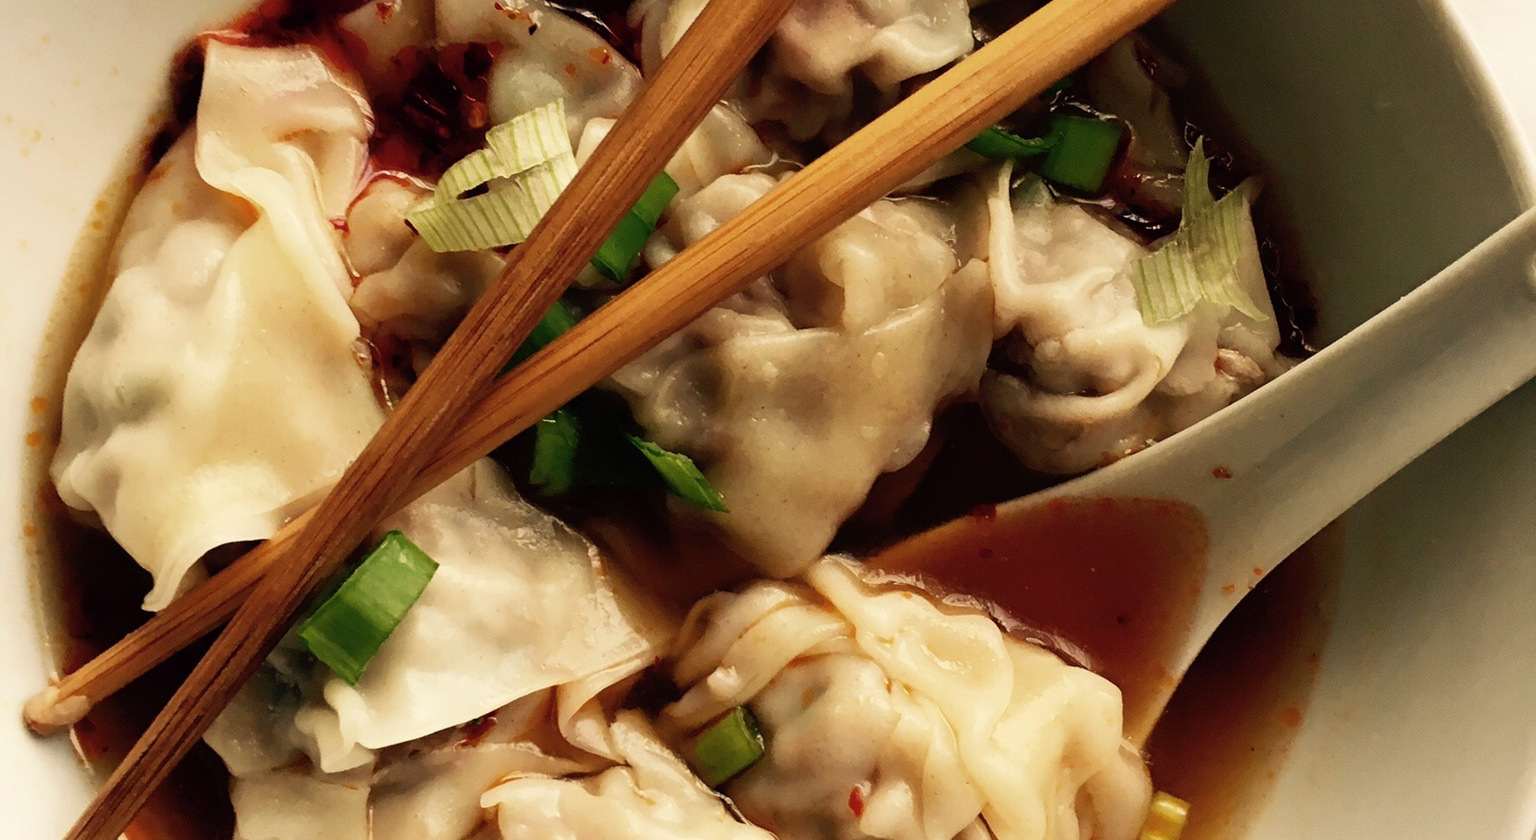
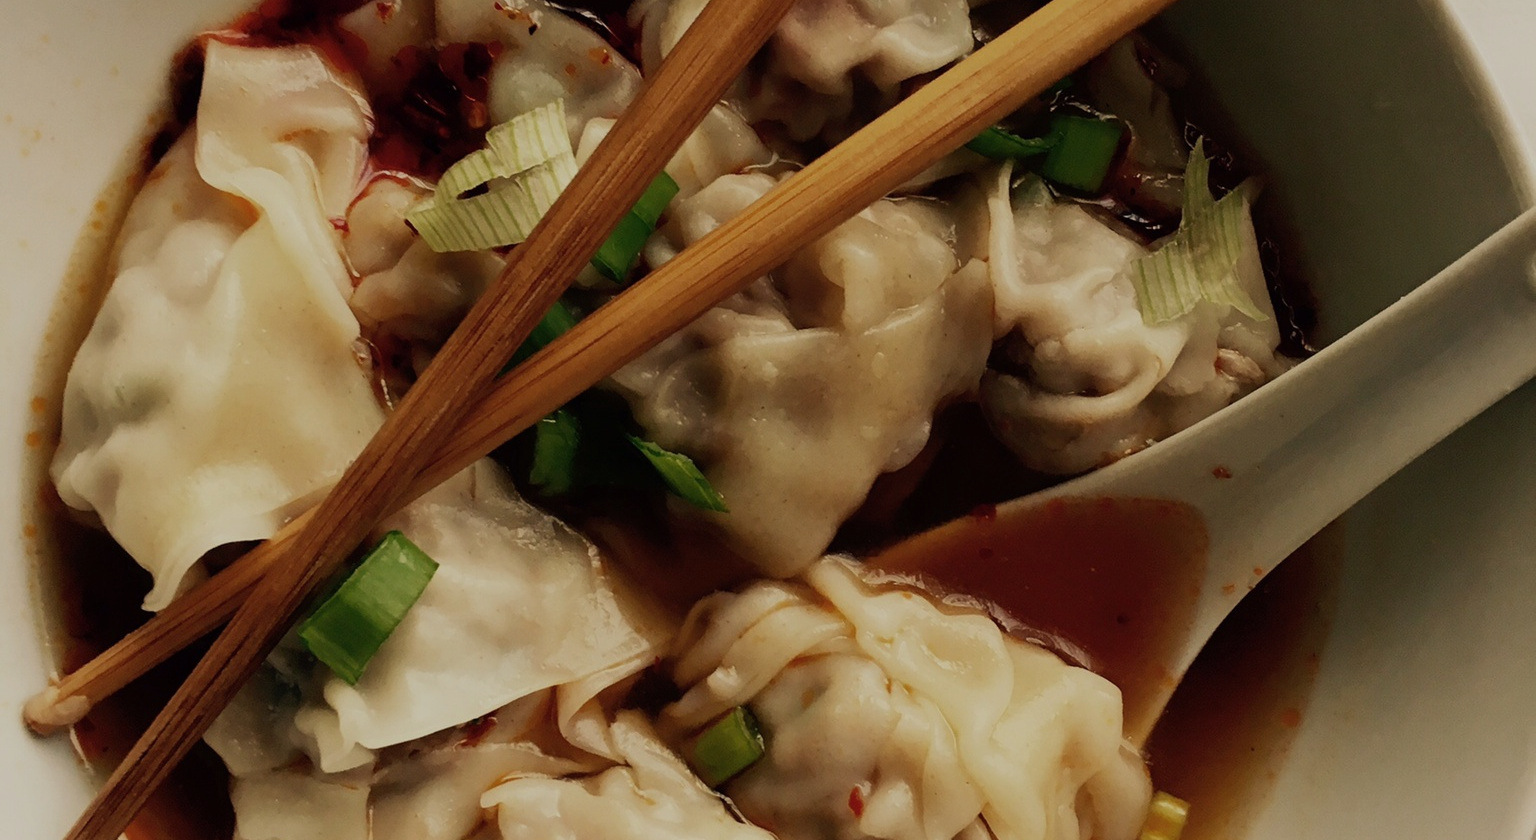
darken landing page picture, additional CSS

diff --git a/app/assets/stylesheets/bootstrap_and_overrides.css.less b/app/assets/stylesheets/bootstrap_and_overrides.css.less
@@ -118,6 +118,6 @@ html {
 }
 
 .jumbotron {
-  background-color: white;
+  background-color: transparent;
 }
 
